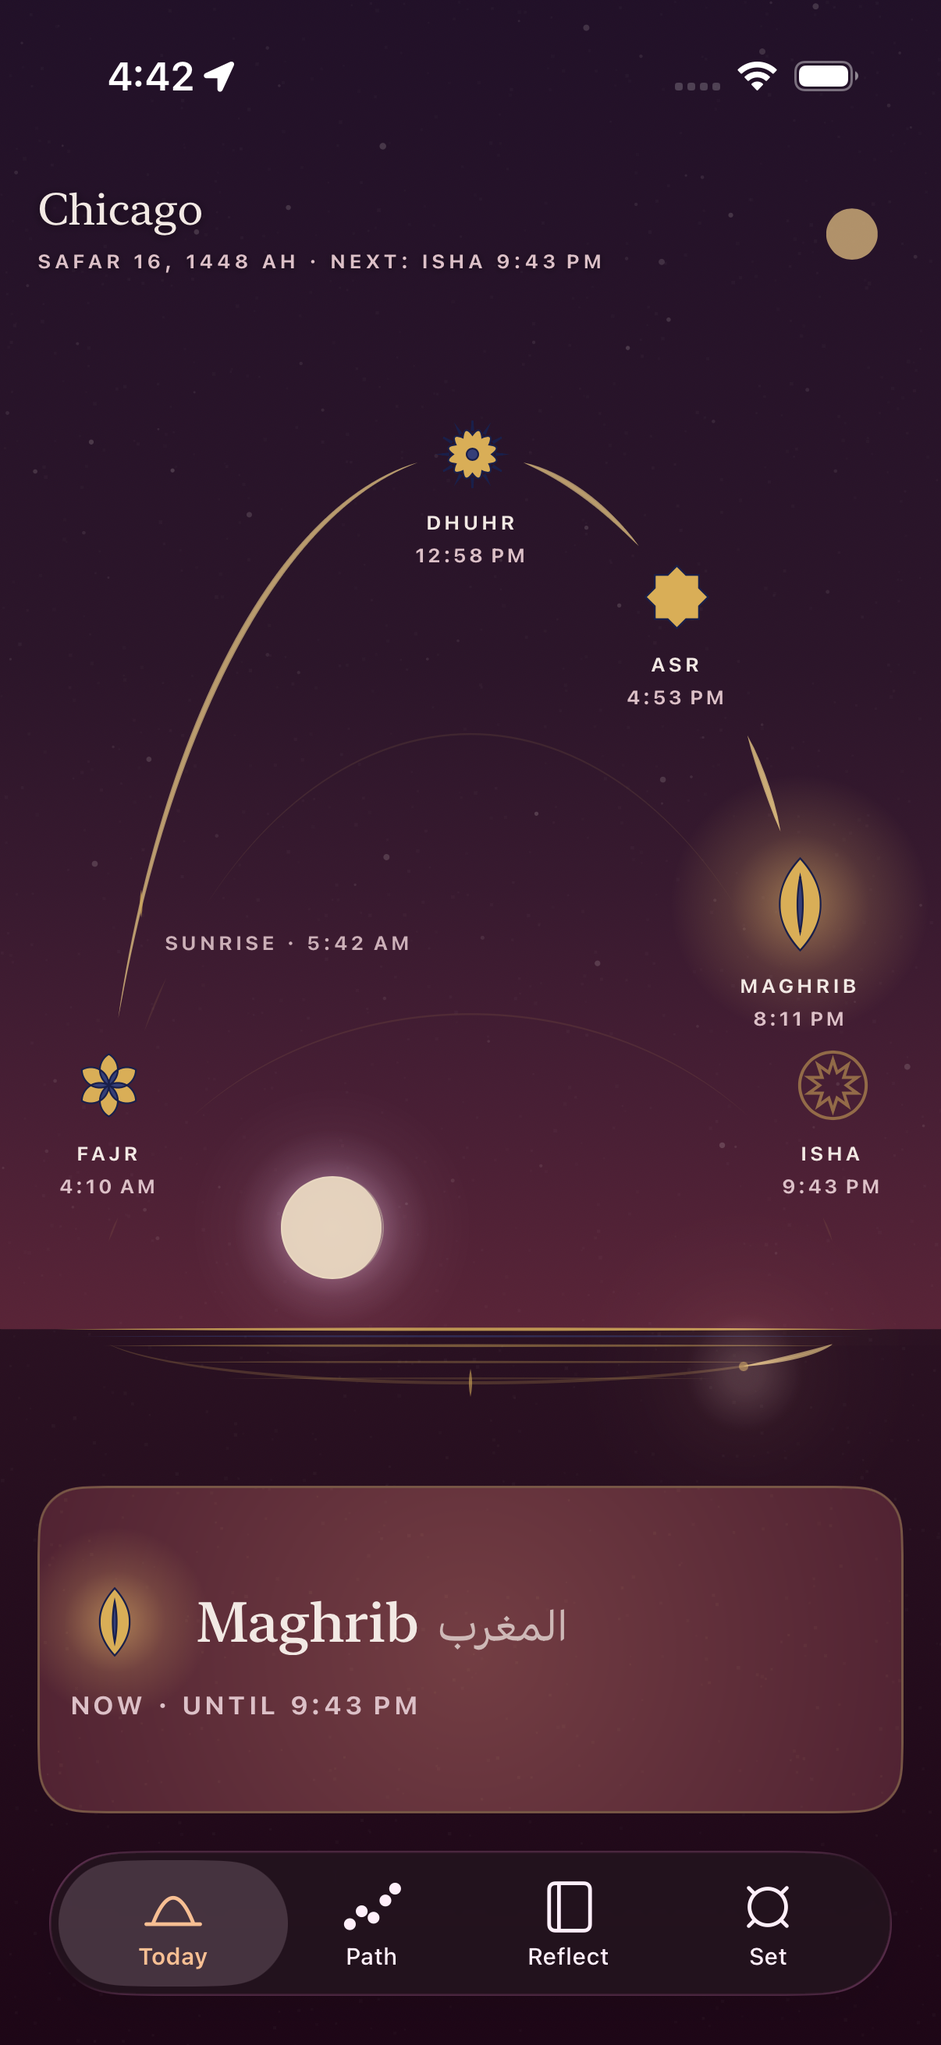
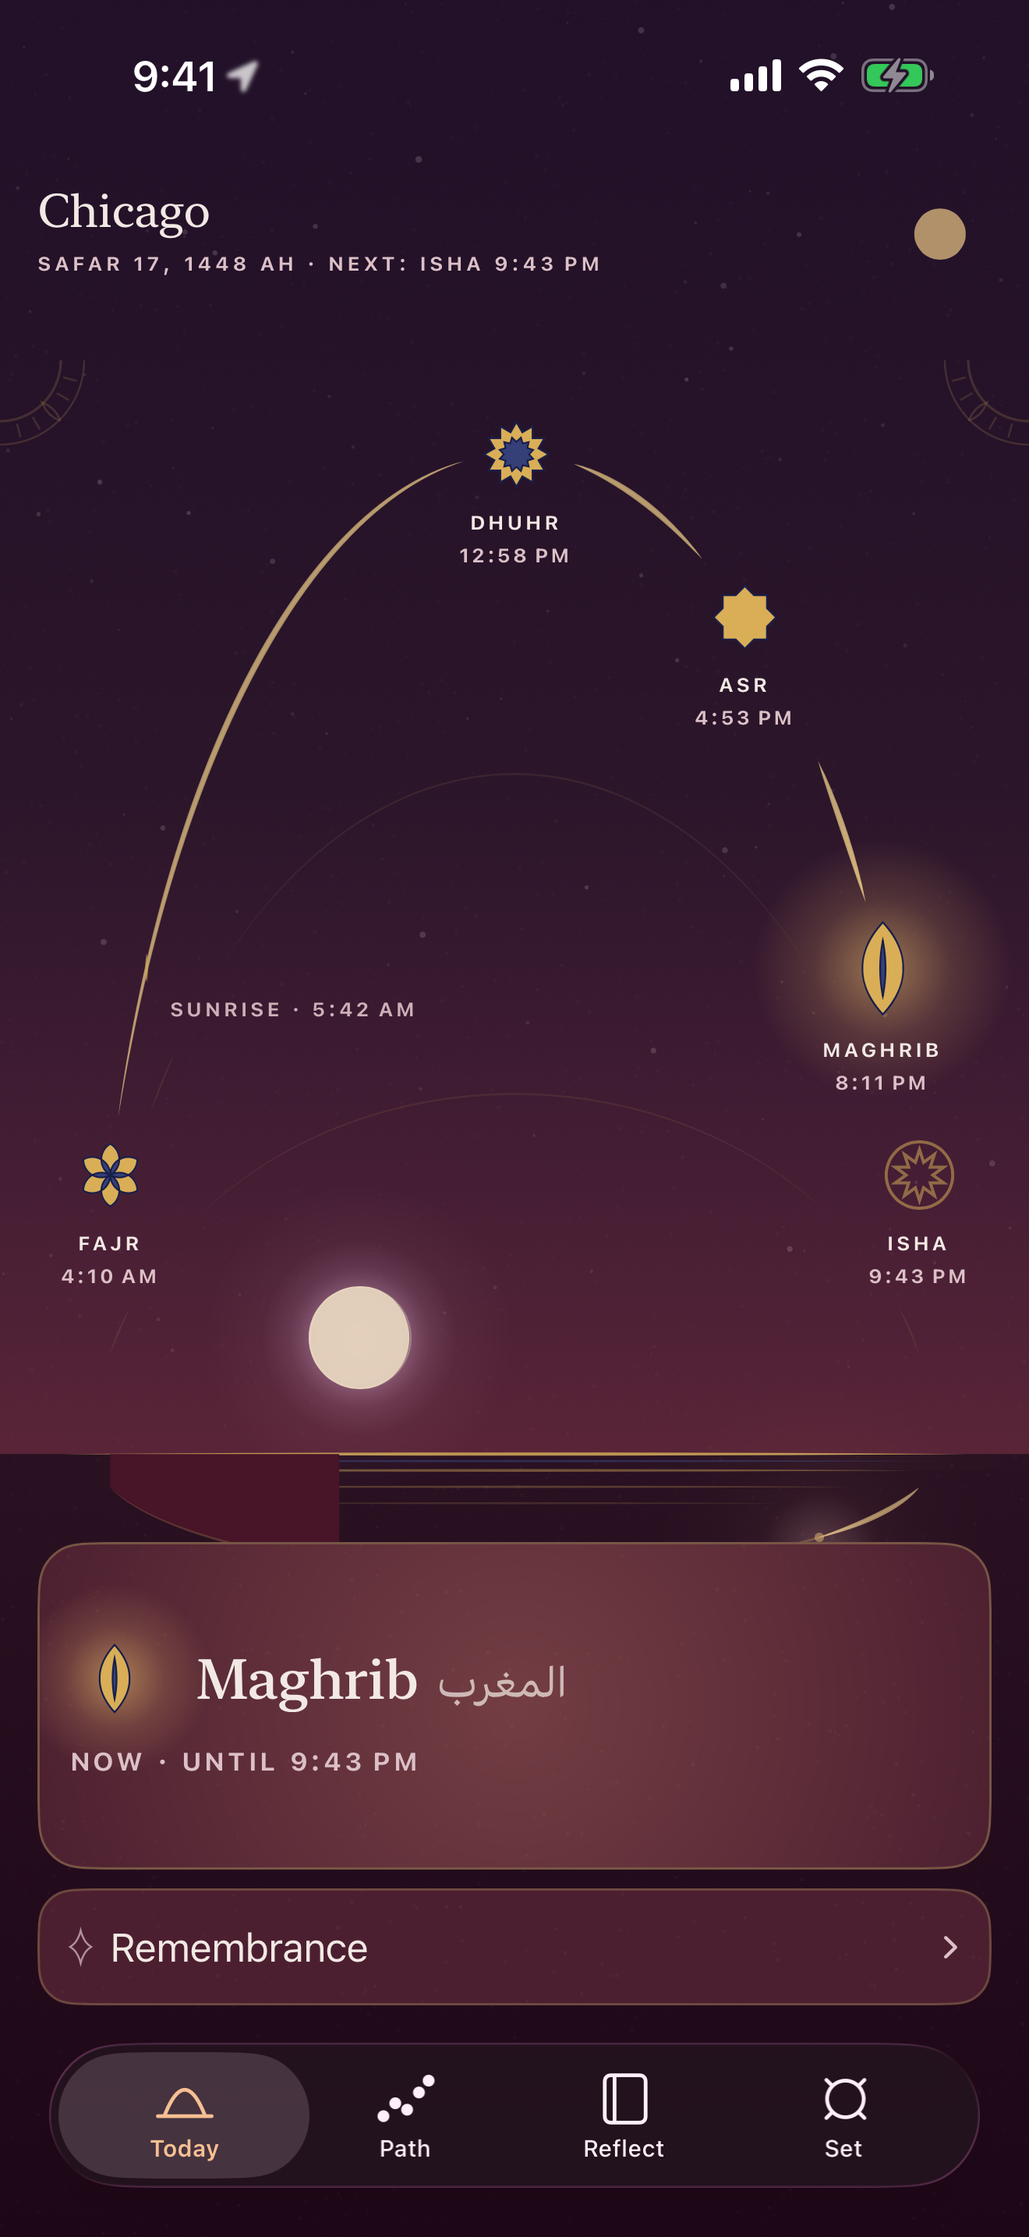
ship: open the adhkār gate ahead of sign-off; 6.9-inch store set
The maintainer opened the scholar-review gate on the reviewer's
commitment to sign: adhkar-content.json reads "reviewed", its
reviewNote and ADHKAR_REVIEW.md say the gate was opened ahead of the
signature, and AdhkarReviewGateTests / AdhkarReviewArtifactTests pin
that state. Release builds now ship the remembrance layer and the
weather duas. The signature and the 25 needsVerification references
are still owed; SHIP.md says not to upload before them. Setting the
field back to "draft" closes the gate again.

The remembrance layer is on by default, so the weather duas now make
the WeatherKit request on a fresh install even with Living sky off.
The privacy policy (hosted and in-app) said the request happened only
while Living sky was on; both now say what is true.

Store screenshots are recaptured at 6.9" (1320 x 2868) with a pinned
9:41 status bar. Frame 6 is Path, replacing the debug widget gallery
whose section label sat under the clock. The logging frame opens fresh
and taps On Time, because a debug-seeded log lands after the sheet has
read its state. The month is seeded with four weeks instead of six
days. -IhsanDebugShippingGates (DEBUG-only) makes a debug build show
only what a release build shows; the harness runs under it.

App Store Connect has no caption field, and WeatherKit needs both App
ID checkboxes and nothing in App Store Connect: SHIP.md and the
captions doc now say so.

diff --git a/ihsanUITests/AppStoreShotsUITests.swift b/ihsanUITests/AppStoreShotsUITests.swift
@@ -20,16 +20,27 @@ final class AppStoreShotsUITests: XCTestCase {
     private static let afternoon = "2026-07-30T15:10:00"
 
     /// A month of logged days, so Path and Repair show a life rather
-    /// than an empty grid.
-    private static let seededMonth = [
-        "fajr:onTime:-1", "dhuhr:onTime:-1", "asr:late:-1", "maghrib:onTime:-1", "isha:onTime:-1",
-        "fajr:onTime:-2", "dhuhr:onTime:-2", "asr:onTime:-2", "maghrib:onTime:-2", "isha:late:-2",
-        "fajr:late:-3", "dhuhr:onTime:-3", "asr:onTime:-3", "maghrib:onTime:-3", "isha:onTime:-3",
-        "fajr:onTime:-4", "dhuhr:onTime:-4", "asr:onTime:-4", "maghrib:onTime:-4", "isha:onTime:-4",
-        "fajr:onTime:-5", "dhuhr:late:-5", "asr:onTime:-5", "maghrib:onTime:-5", "isha:onTime:-5",
-        "fajr:onTime:-6", "dhuhr:onTime:-6", "asr:onTime:-6", "maghrib:onTime:-6", "isha:onTime:-6",
-        "fajr:onTime:0", "dhuhr:onTime:0", "asr:onTime:0"
-    ].joined(separator: ";")
+    /// than an empty grid: four weeks, mostly on time, a few delayed,
+    /// and a few left unrecorded the way a real month is.
+    private static let seededMonth: String = {
+        let prayers = ["fajr", "dhuhr", "asr", "maghrib", "isha"]
+        var specs: [String] = []
+        for day in 1...27 {
+            for (index, prayer) in prayers.enumerated() {
+                let roll = (day * 7 + index * 3) % 23
+                if roll == 0 { continue }
+                specs.append("\(prayer):\(roll < 3 ? "late" : "onTime"):-\(day)")
+            }
+        }
+        specs += ["fajr:onTime:0", "dhuhr:onTime:0", "asr:onTime:0"]
+        return specs.joined(separator: ";")
+    }()
+
+    /// The same month with today's Dhuhr and Asr still open.
+    private static let seededMonthBeforeDhuhr = seededMonth
+        .split(separator: ";")
+        .filter { !$0.hasPrefix("dhuhr:onTime:0") && !$0.hasPrefix("asr:onTime:0") }
+        .joined(separator: ";")
 
     private let springboard = XCUIApplication(bundleIdentifier: "com.apple.springboard")
 
@@ -53,12 +64,15 @@ final class AppStoreShotsUITests: XCTestCase {
             "-IhsanDebugLogPrayer", Self.seededMonth
         ])
 
-        // 3. Logging: the two axes, with an open window.
+        // 3. Logging: the two axes, with an open window and the
+        // answer being given. Dhuhr is left unlogged so the sheet opens
+        // fresh — a seeded log lands after the sheet has read its
+        // state, which framed "Save Changes" over an empty choice.
         capture("store-3-logging", arguments: [
             "-IhsanNowOverride", Self.afternoon,
-            "-IhsanDebugLogPrayer", Self.seededMonth,
+            "-IhsanDebugLogPrayer", Self.seededMonthBeforeDhuhr,
             "-IhsanDebugPresentLogSheet", "dhuhr"
-        ], settle: 3.5)
+        ], settle: 3.5, tapLabelPrefix: "On Time")
 
         // 4. Repair — the makeup thread.
         capture("store-4-repair", arguments: [
@@ -75,12 +89,14 @@ final class AppStoreShotsUITests: XCTestCase {
             "-IhsanDebugPresentQibla"
         ], settle: 3.5)
 
-        // 6. The nightstand face.
-        capture("store-6-standby", arguments: [
+        // 6. Path — the month as a pattern, not a score. (This frame
+        // used to be the debug widget gallery, scrolled until one of
+        // its section labels sat under the status bar clock.)
+        capture("store-6-path", arguments: [
             "-IhsanNowOverride", Self.night,
             "-IhsanDebugLogPrayer", Self.seededMonth,
-            "-IhsanDebugWidgetGallery"
-        ], settle: 3.5, scrollsToBottom: true)
+            "-IhsanDebugTab", "trajectory"
+        ], settle: 3.5)
     }
 
     @MainActor
@@ -88,12 +104,16 @@ final class AppStoreShotsUITests: XCTestCase {
         _ name: String,
         arguments: [String],
         settle: TimeInterval = 3.0,
-        scrollsToBottom: Bool = false
+        tapLabelPrefix: String? = nil
     ) {
         let app = XCUIApplication()
         app.launchArguments = [
             "-IhsanDebugCompletedOnboarding",
-            "-IhsanDebugResetStore"
+            "-IhsanDebugResetStore",
+            // The store shows what ships: no layer still behind its
+            // review gate (the adhkār texts, and with them the weather
+            // duas) may appear in a frame.
+            "-IhsanDebugShippingGates"
         ] + arguments
         app.launch()
 
@@ -111,11 +131,12 @@ final class AppStoreShotsUITests: XCTestCase {
         }
         Thread.sleep(forTimeInterval: settle)
 
-        if scrollsToBottom {
-            for _ in 0..<4 {
-                app.swipeUp(velocity: .fast)
-                Thread.sleep(forTimeInterval: 0.4)
-            }
+        if let tapLabelPrefix {
+            let control = app.buttons
+                .matching(NSPredicate(format: "label BEGINSWITH %@", tapLabelPrefix))
+                .firstMatch
+            XCTAssertTrue(control.waitForExistence(timeout: 10), "Missing \(tapLabelPrefix)")
+            control.tap()
             Thread.sleep(forTimeInterval: 1.0)
         }
 

diff --git a/Packages/IhsanCore/Tests/IhsanCoreTests/AdhkarContentTests.swift b/Packages/IhsanCore/Tests/IhsanCoreTests/AdhkarContentTests.swift
@@ -150,34 +150,33 @@ struct AdhkarContentTests {
     }
 }
 
-/// The scholar-review gate. Its whole value is that it cannot be
-/// forgotten, so it is asserted from both ends: the file is draft, and
-/// a draft file is invisible to a release build.
+/// The scholar-review gate, opened. The maintainer cleared it on
+/// 28 Oct 2026 on the reviewer's commitment to sign, ahead of the
+/// signature itself, so the file says so rather than claiming a review
+/// that has not been recorded. Setting `reviewStatus` back to `draft`
+/// closes the gate again; these expectations then fail and point here.
 @Suite("Adhkar review gate")
 struct AdhkarReviewGateTests {
 
-    @Test("The shipped content is still marked draft")
-    func contentIsDraft() throws {
+    @Test("The shipped content is open, and says it is ahead of sign-off")
+    func contentIsReleasedAheadOfSignOff() throws {
         let content = try #require(BundledAdhkar.content)
         #expect(
-            content.reviewStatus == .draft,
-            "The content file claims review is complete. If a scholar has signed ADHKAR_REVIEW.md, delete this expectation deliberately in the same commit."
+            content.reviewStatus == .reviewed,
+            "The content file is back to draft. If that was deliberate, restore the draft expectations in the same commit."
         )
-        #expect(content.reviewNote.contains("PENDING SCHOLAR REVIEW"))
+        #expect(
+            content.reviewNote.contains("ahead of the signed review"),
+            "Once ADHKAR_REVIEW.md is signed, rewrite the note and this expectation together."
+        )
     }
 
-    /// The gate, exercised. A DEBUG build keeps the surfaces so the
-    /// maintainer can review them on device; a release build has no
-    /// adhkar at all while the file is draft.
-    @Test("Draft content is unavailable in a release build")
-    func draftIsGated() {
-        #if DEBUG
+    /// Reviewed content is offered in every build, and nothing anywhere
+    /// says DRAFT.
+    @Test("Reviewed content is available in every build")
+    func reviewedIsAvailable() {
         #expect(AdhkarAvailability.isAvailable)
-        #expect(AdhkarAvailability.isShowingDraftContent)
-        #else
-        #expect(!AdhkarAvailability.isAvailable)
         #expect(!AdhkarAvailability.isShowingDraftContent)
-        #endif
     }
 }
 

diff --git a/ihsan/Settings/PrivacyPolicyScreen.swift b/ihsan/Settings/PrivacyPolicyScreen.swift
@@ -28,7 +28,7 @@ struct PrivacyPolicyScreen: View {
             }
 
             SettingsSectionCard("What leaves your device") {
-                SettingsDescriptionText("Ihsan makes four kinds of requests. Three go to Apple: reverse geocoding turns coordinates into a city name; the nearby-masjid search sends your position to Apple Maps only while that sheet is open; a weather reading paints the living sky, only while it is switched on in Set → Display. The fourth fetches a small file of prayer thresholds and reflection prompts from the developer's public GitHub repository; the same file ships inside the app, so nothing depends on it.")
+                SettingsDescriptionText("Ihsan makes four kinds of requests. Three go to Apple: reverse geocoding turns coordinates into a city name; the nearby-masjid search sends your position to Apple Maps only while that sheet is open; a weather reading, only while something in the app uses it: the living sky (Set → Display, off by default) or the weather duas (Set → Adhkār, on by default). The fourth fetches a small file of prayer thresholds and reflection prompts from the developer's public GitHub repository; the same file ships inside the app, so nothing depends on it.")
                 SettingsDescriptionText("None of these requests carries anything that identifies you, and nothing is sold, shared, or used for advertising.")
             }
 

diff --git a/ihsanTests/AdhkarReviewArtifactTests.swift b/ihsanTests/AdhkarReviewArtifactTests.swift
@@ -122,12 +122,14 @@ struct AdhkarReviewArtifactTests {
         )
     }
 
-    @Test("The document says the content is draft, because it is")
-    func documentCarriesTheDraftStatus() throws {
+    /// The gate is open ahead of the signature. The document says
+    /// exactly that, so nobody reads an open gate as a finished review.
+    @Test("The document says the gate opened ahead of sign-off, because it did")
+    func documentCarriesTheReleaseStatus() throws {
         let document = try reviewDocument
         let status = try content.reviewStatus
-        #expect(document.contains("DRAFT — PENDING SCHOLAR REVIEW"))
-        #expect(status == "draft")
+        #expect(document.contains("RELEASED AHEAD OF SIGN-OFF"))
+        #expect(status == "reviewed")
     }
 
     /// The document explains the gate and names the code that enforces

diff --git a/Packages/IhsanCore/Sources/IhsanCore/Adhkar/AdhkarContentLoader.swift b/Packages/IhsanCore/Sources/IhsanCore/Adhkar/AdhkarContentLoader.swift
@@ -157,7 +157,10 @@ public enum AdhkarAvailability {
             return true
         case .draft:
             #if DEBUG
-            return true
+            // `-IhsanDebugShippingGates` shows a debug build exactly
+            // what a release build shows. The App Store screenshots are
+            // captured under it, so they never picture a gated layer.
+            return !ProcessInfo.processInfo.arguments.contains("-IhsanDebugShippingGates")
             #else
             return false
             #endif

diff --git a/SHIP.md b/SHIP.md
@@ -45,6 +45,15 @@ an app, not just personal use. App Review spot-checks audio provenance.
 
 ### 2. The scholar's eyes
 
+**The adhkār gate is already open.** On 28 Oct 2026 the maintainer set
+`"reviewStatus": "reviewed"` on the reviewer's commitment to sign, so a
+release build now ships the remembrance layer and the weather duas.
+Do not upload until the sign-off block at the end of `ADHKAR_REVIEW.md`
+is filled in and the 25 references marked `needsVerification` have been
+checked against a printed copy. If the signature does not come, set the
+field back to `"draft"`: one line, and the layer disappears from
+release again.
+
 The app never rules, and the places it comes closest to a ruling want a
 second reading:
 
@@ -107,7 +116,9 @@ names.
    field. The same text is inside the app at Set → About → Privacy
    policy, so the in-app requirement is already met; only the metadata
    field needs the link. The old `sameerstudios.github.io/ihsan/privacy`
-   address does not resolve — do not reuse it.
+   address does not resolve — do not reuse it. The repository is
+   public, so `https://github.com/Smear6uard/ihsan/blob/main/docs/privacy-policy.md`
+   works today; GitHub Pages on the same repository gives a cleaner one.
 1. **Version.** `MARKETING_VERSION = 1.0.0`, `CURRENT_PROJECT_VERSION = 1`.
 2. **Archive.** `xcodebuild archive -scheme ihsan -destination
    'generic/platform=iOS'` succeeds. Re-run with real signing, and
@@ -120,9 +131,12 @@ names.
 3. **App Privacy.** Answer from `docs/app-privacy.md`. The short
    version: **no data collected**, no tracking, no third-party SDKs.
    That answer is true, and the manifest says the same.
-4. **Screenshots.** Six frames in `docs/app-store/`, captions in
-   `docs/app-store-captions.md`. Regenerate at 6.9" against an
-   iPhone 17 Pro Max destination before uploading.
+4. **Screenshots.** Six frames in `docs/app-store/`, regenerated at
+   6.9" (1320 × 2868) on iPhone 17 Pro Max with a pinned 9:41 status
+   bar, 28 Oct 2026. Frame 6 is now Path; it used to be the debug
+   widget gallery with a section label under the status bar clock.
+   App Store Connect has no caption field — `docs/app-store-captions.md`
+   says what to do with the lines written there.
 5. **Review notes.** The "Notes for App Review" section of
    `docs/app-privacy.md` covers religious-content provenance, the
    on-device model's scope, AlarmKit, and why there is no background
@@ -133,6 +147,17 @@ names.
    background `fetch` + `remote-notification`, and the BGTaskScheduler
    identifier `com.sameerstudios.ihsan.refresh-notifications`. Sign in
    with Apple is intentionally not used.
+
+   **WeatherKit has two checkboxes, and both are required.** In
+   Certificates, Identifiers & Profiles → Identifiers →
+   `com.sameerstudios.ihsan`, tick WeatherKit under **Capabilities**
+   and again under **App Services**, then save. App Store Connect has
+   no WeatherKit switch. Allow up to about half an hour before the
+   first request authenticates; until then every fetch fails, and the
+   plate silently paints its idealized sky. 500,000 calls a month are
+   included in the membership. The required attribution (the
+   Weather mark and the legal link) is in Set → Display beside the
+   Living sky switch, and again in Set → About.
 7. **Platforms.** The app targets iPhone only
    (`TARGETED_DEVICE_FAMILY = 1`, portrait). On iPad, Mac, and Vision
    Pro it runs in iPhone-compatibility mode; if any of those should not

diff --git a/docs/app-store-captions.md b/docs/app-store-captions.md
@@ -8,19 +8,27 @@ logged days behind it. Regenerate with:
 ```bash
 xcrun simctl location <udid> set 41.8781,-87.6298
 xcodebuild test -project ihsan.xcodeproj -scheme ihsan \
-    -destination 'platform=iOS Simulator,name=iPhone 17 Pro' \
+    -destination 'platform=iOS Simulator,name=iPhone 17 Pro Max' \
     -only-testing:ihsanUITests/AppStoreShotsUITests
 ```
 
 Nothing is composited, retouched, or staged in a design tool. If a
 frame looks wrong, the app looks wrong.
 
+The harness launches with `-IhsanDebugShippingGates`, so a frame shows
+only what a release build shows. With the adhkār gate open, that
+includes the Remembrance band and its morning and evening offers. If
+the gate is ever closed again, the band reads "Tasbīḥ" with no offers,
+and frames captured without the flag would picture a layer the binary
+does not have.
+
 ## Captions
 
-Set these in App Store Connect rather than burning them into the
-images — burnt-in text does not localise and does not scale. Each is
-one line, factual, in the app's own register. No exclamation, no
-imperative, no promise.
+App Store Connect has no caption field: a screenshot is uploaded as
+an image and nothing else. These lines either get set into the frames
+before upload, or they stay here as the brief for the promotional
+text and description. Each is one line, factual, in the app's own
+register. No exclamation, no imperative, no promise.
 
 | Frame | Caption |
 | --- | --- |
@@ -29,17 +37,18 @@ imperative, no promise.
 | `store-3-logging` | Two questions, one tap: when you prayed, and whether you prayed with others. |
 | `store-4-repair` | A ledger for what you carry, and a pace you set yourself. |
 | `store-5-qibla` | The direction, drawn rather than pointed at. |
-| `store-6-standby` | On the nightstand, at the brightness a dark room deserves. |
+| `store-6-path` | A month of prayer as a pattern of days. No streaks, no score. |
 
 ## Required sizes
 
 The 6.9" set (1320 × 2868) is the only mandatory one; App Store Connect
-scales it down for the smaller families. Frames here are captured on
-iPhone 17 Pro (1206 × 2622). Before submission, re-run the test against
-an iPhone 17 Pro Max destination:
+scales it down for the smaller families. The frames here are captured
+on iPhone 17 Pro Max at that size. Pin a clean status bar on the
+simulator before running the test, or the frames carry whatever time
+and signal the simulator happens to show:
 
 ```bash
--destination 'platform=iOS Simulator,name=iPhone 17 Pro Max'
+xcrun simctl status_bar <udid> override --time 9:41 --dataNetwork wifi --wifiBars 3 --cellularMode active --cellularBars 4 --batteryState charged --batteryLevel 100
 ```
 
 An iPad set is not required: the app ships iPhone-only.

diff --git a/ADHKAR_REVIEW.md b/ADHKAR_REVIEW.md
@@ -1,6 +1,10 @@
 # ADHKĀR — REVIEW REQUEST
 
-**Status: DRAFT — PENDING SCHOLAR REVIEW.**
+**Status: RELEASED AHEAD OF SIGN-OFF.** On 28 Oct 2026 the maintainer
+set `"reviewStatus": "reviewed"` on the reviewer's commitment to sign,
+so release builds now show every text below. The sign-off at the end
+of this document is still owed, and each of the 25 references flagged
+for verification still needs checking against a printed copy.
 
 This document is generated from the app's single content file,
 `Packages/IhsanCore/Sources/IhsanCore/Resources/adhkar-content.json`
@@ -68,9 +72,11 @@ anything ships.
 
 The app will not show any of this in a release build while the
 content file reads `"reviewStatus": "draft"`. `AdhkarAvailability`
-enforces it in code, and `AdhkarReviewGateTests` enforces that the
-enforcement exists. When this document is signed, the maintainer
-changes that one field to `"reviewed"`.
+enforces it in code. The field now reads `"reviewed"`: it was opened
+ahead of the signature below, and `AdhkarReviewGateTests` pins that
+state. Setting it back to `"draft"` closes the gate again. When this
+document is signed, bump `contentVersion` and rewrite the content
+file's `reviewNote` to say so.
 
 ---
 

diff --git a/docs/app-privacy.md b/docs/app-privacy.md
@@ -42,9 +42,10 @@ the developer runs, because there isn't one.
 3. **The weather reading**, to Apple Weather via WeatherKit — coordinates
    in, the current conditions out. It happens only while something is
    actually asking for weather: the Living sky toggle in Set → Display
-   (off by default), or the weather duas in the remembrance layer. With
-   both off, `WeatherInterest` reports no interested consumer and the
-   request is never made.
+   (off by default), or the weather duas in the remembrance layer (on by
+   default since the adhkār gate opened on 28 Oct 2026, so a fresh
+   install does make this request). With both off, `WeatherInterest`
+   reports no interested consumer and the request is never made.
 
    The coordinates are used to scope the one request and discarded with
    it — `WeatherKitSkyProvider` retains, persists, and logs nothing. What

diff --git a/docs/privacy-policy.md b/docs/privacy-policy.md
@@ -42,8 +42,9 @@ masjid removes it.
 Ihsan makes four kinds of requests. Three go to Apple: reverse
 geocoding turns coordinates into a city name; the nearby-masjid search
 sends your position to Apple Maps only while that sheet is open; a
-weather reading paints the living sky, only while it is switched on in
-Set → Display. The fourth fetches a small file of prayer thresholds and
+weather reading, only while something in the app uses it: the living
+sky (Set → Display, off by default) or the weather duas (Set → Adhkār,
+on by default). The fourth fetches a small file of prayer thresholds and
 reflection prompts from the developer's public GitHub repository; the
 same file ships inside the app, so nothing depends on it.
 
